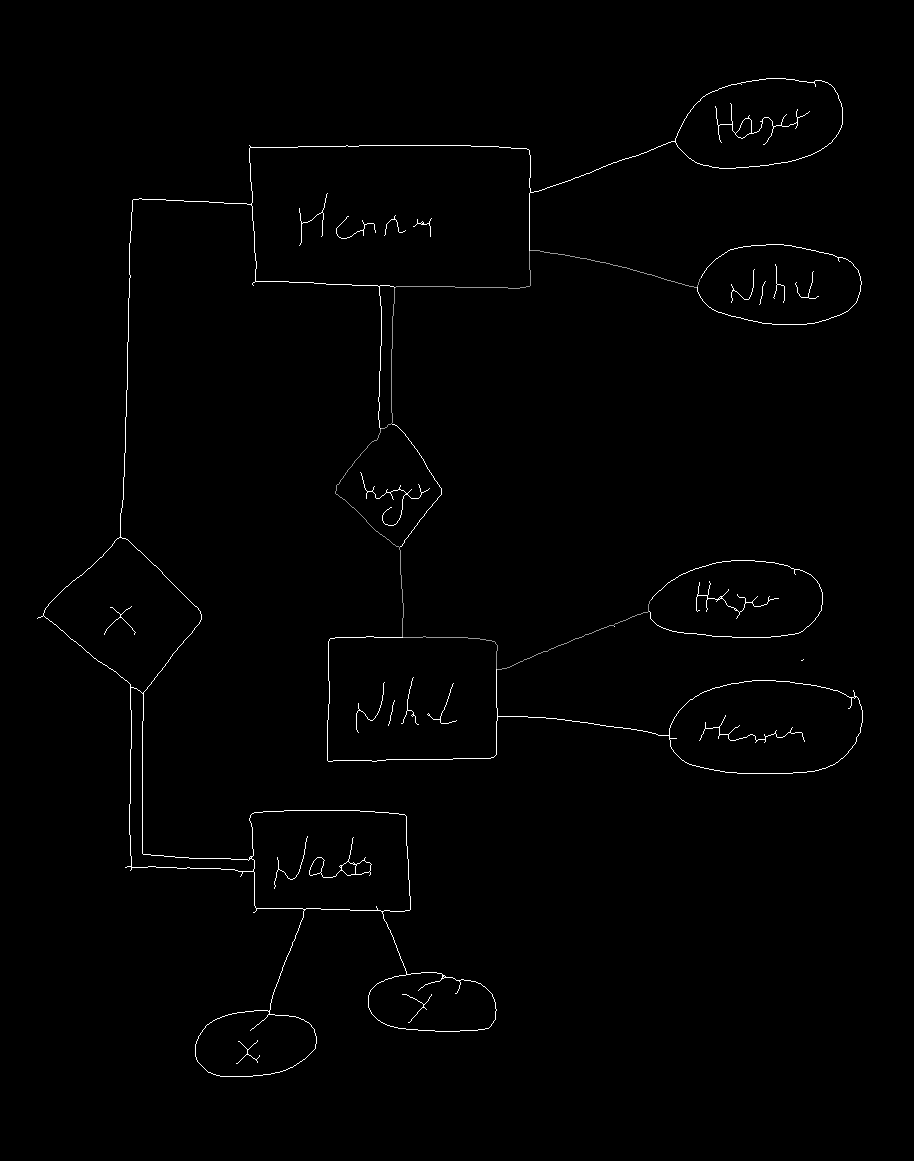
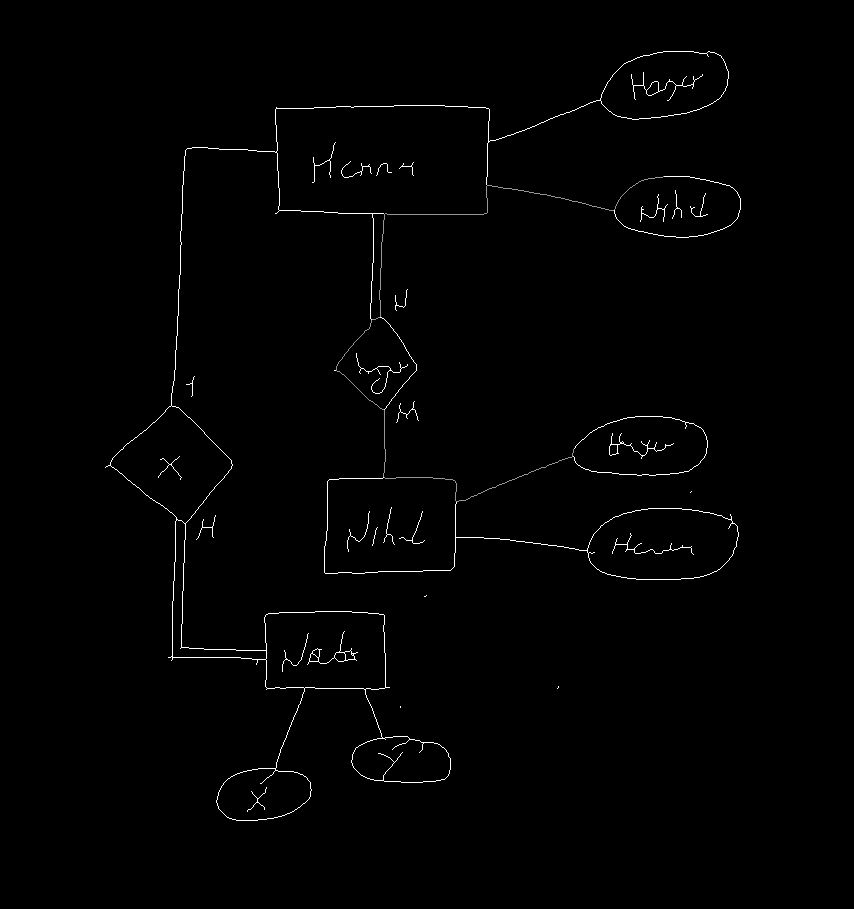
Add cardinality detection

diff --git a/src/detect_rel_prop.py b/src/detect_rel_prop.py
@@ -3,6 +3,8 @@ import cv2 as cv
 from numpy.lib.function_base import delete
 from skimage.morphology import dilation,closing,opening
 from skimage.morphology import skeletonize
+from skimage import io
+import math
 G=0
 from path_points import *
 # entities=[
@@ -215,7 +217,7 @@ def get_contour(img):
     contour = list(zip(*ii))
     return  np.array([contour])
 A=0
-def filter_points(contourOrig,binarizedImgOrig):
+def filter_points(contourOrig,binarizedImgOrig,relation=None):
     contour_points = []
     #draw contours
     binarizedImg = binarizedImgOrig.copy()
@@ -229,6 +231,8 @@ def filter_points(contourOrig,binarizedImgOrig):
     A+=1
     #print("contour_bef",contour)
     contour = get_contour(empty)
+    if relation:
+        relation["contour_cardinality"] = contour
     #print("contour_aft",contour)
     empty = np.zeros(binarizedImg.shape,np.uint8)
     cv.drawContours(empty, contour, -1, (255,255,255), 1)
@@ -262,11 +266,12 @@ def detect_participation(relations,binarizedImg):
     r=0
     e=0
     for relation in relations.values():
+        rel_paths=[]
         for entity in relation["entities"]:
             #get type of participation between the current entitiy and relation
             #define 2 points one on for the relation and the other on the entity
             #get all paths between the 2 points
-            relation["contour"] = filter_points(relation["contour"].copy(),edges.copy())
+            relation["contour"] = filter_points(relation["contour"].copy(),edges.copy(),relation)
             #if ( not is_visited.get(entity["bounding_box"])):
             entity["contour"] = filter_points(entity["contour"].copy(),edges.copy())
             #else:
@@ -288,12 +293,14 @@ def detect_participation(relations,binarizedImg):
 
             p=0
             for path in paths:
+                rel_paths.append(path)
                 edges_test = (edges.copy())*255
                 for point in path:   
                     edges_test[point[0]][point[1]]=150
                 cv.imwrite("pathed_final"+str(r)+str(e)+str(p)+".png",edges_test)
                 p+=1
             e+=1
+        relation["paths"] = rel_paths.copy()
         r+=1
             
 def get_relations(binarizedImg,contours,labels):
@@ -322,6 +329,136 @@ def get_relations(binarizedImg,contours,labels):
         k+=1
     #print(labels)
     detect_participation(relations,binarizedImg)
-    print(relations)
+    return relations
+
+
+def cardinality(relations,img):
+    #erase relation contour
+    #getting the rect bounding the relation
+    #erase relation
+    #create window with 3*w , 3*h of relation then erase the paths
+    for relation in relations.values():
+        x,y,w,h = relation["bounding_box"]
+        rows = [p[0] for p in relation["contour_cardinality"][0]]
+        cols = [p[1] for p in relation["contour_cardinality"][0]]
+        img[cols,rows]=255
+        all_points=[]
+        for path in relation["paths"]:
+            rows = [p[0] for p in path]
+            cols = [p[1] for p in path]
+            all_points.extend(path)
+            img[rows,cols]=255 
+        width = 3*w
+        height = 3*h
+        x = x-w
+        y = y-h
+        if x<0:
+            x=0
+        if y<0:
+            y=0
+        if x+width>img.shape[1]:
+            width = img.shape[1]-x
+        if y+height>img.shape[0]:
+            height = img.shape[0]-y
+        erased_points=[]
+        black_before = False
+        black_after = False
+        white = False
+        pattern = []
+        for i in range(y,y+height):
+            for j in range(x,x+width-1):
+        
+                if img[j][i]==0 and black_after==False:
+                    black_before = True
+                    pattern.append([j,i])
+                if img[j][i]==255 and img[j][i+1]==0 and black_before :
+                    white = True
+                if img[j][i]==0 and white and black_before :
+                    black_after = True
+                    pattern.append([j,i])
+                if black_before and white and black_after:
+                    erased_points.extend(pattern)
+                    pattern=[]
+                    black_before = False
+                    black_after = False
+                    white = False
+        black_before = False
+        black_after = False
+        white = False
+        pattern = []
+        for i in range(x,x+width):
+            for j in range(y,y+height-1):
+        
+                if img[j][i]==0 and black_after==False:
+                    black_before = True
+                    pattern.append([j,i])
+                if img[j][i]==255 and img[j+1][i]==0 and black_before :
+                    white = True
+                if img[j][i]==0 and white and black_before :
+                    black_after = True
+                    pattern.append([j,i])
+                if black_before and white and black_after:
+                    erased_points.extend(pattern)
+                    pattern=[]
+                    black_before = False
+                    black_after = False
+                    white = False
+        erased_rows = [p[0] for p in erased_points]
+        erased_cols = [p[1] for p in erased_points]
+        img[erased_rows,erased_cols]=255 
+        cardinality_img = img[y:y+height,x:x+width].copy()
+        relation["cardinality"] = get_relation_cardinality(cardinality_img,relation)
+    cv.imwrite("card_rel_path.png",img)
+
+def distance(p1,p2):
+    return math.sqrt((p1.x-p2.x)**2+(p1.y-p2.y)**2)
+
+def between(p1,p2,p3):
+    #p1 is entity , p2 is relation , p3 is cardinality
+    #if distance between entity+cardinality , relation+cardinality is close to entity+relation then the cardinality falls between them
+    return math.isclose(distance(p1,p3)+distance(p2,p3),distance(p1,p2),rel_tol=0.5)
+
+def get_relation_cardinality(cardinality_img,relation):
+    # Get contours of cardinality_img
+    # If 2 then these are the 2 cardinalities else get the biggest 2 contours
+    # Classify each cardinality
+    # get center of each entity and center of each cardinality then compare the rows and cols ranges
+    # assign the correct cardinality for each entity
+    contours = cv.findContours(cardinality_img, cv.RETR_TREE, cv.CHAIN_APPROX_SIMPLE)[0]
+    cardinalities=[]
+    cardinalities_text=[]
+    number_of_cards = len(relation["entities"])
+    if len(contours<number_of_cards):
+        print("Error in detecting cardinalities")
+        return
+    elif len(contours==number_of_cards):
+        cardinalities.extend(contours)
+    else:
+        contours = sorted(contours, key=lambda x: cv.contourArea(x))
+        cardinalities.extend(contours[0:number_of_cards])
+    x,y,w,h = relation["bounding_box"]
+    center_relation = (x+w//2,y+h//2)
+    cardinalities_text = classify_cardinalities(cardinalities)
+    for i in range(number_of_cards):
+        x1,y1,w1,h1= cv.boundingRect(cardinalities[i])
+        center_cardinality = (x1+w1//2,y1+h1//2)
+        for entity in relation["entities"]:
+            x2,y2,w2,h2= cv.boundingRect(entity)
+            center_entity = (x2+w2//2,y2+h2//2)
+            if between(center_relation,center_entity,center_cardinality):
+                entity["cardinality"]=cardinalities_text[i]
+                break
+
+            
+def classify_cardinalities(cardinalities):
+    return ["N","1"]
+
+
+
+
+
+
+
+
 
 

diff --git a/src/main.py b/src/main.py
@@ -53,7 +53,8 @@ cv2.imwrite("final_out_shapes/im_final"+pre+".png",im)
 print(shapes_no)
 shapes = detect_shapes(shapes_no)
 weak = detectWeak(shadowFreeImg,hulls,shapes)
-get_relations(binarizedImg,hulls,shapes)
+relations = get_relations(binarizedImg,hulls,shapes)
+cardinality(relations,binarizedImg)
 #connectEntities(scale_contours(finalContours,1.17),binarizedImg,shapes)
 #connectEntities(finalContours,binarizedImg,shapes)
 
